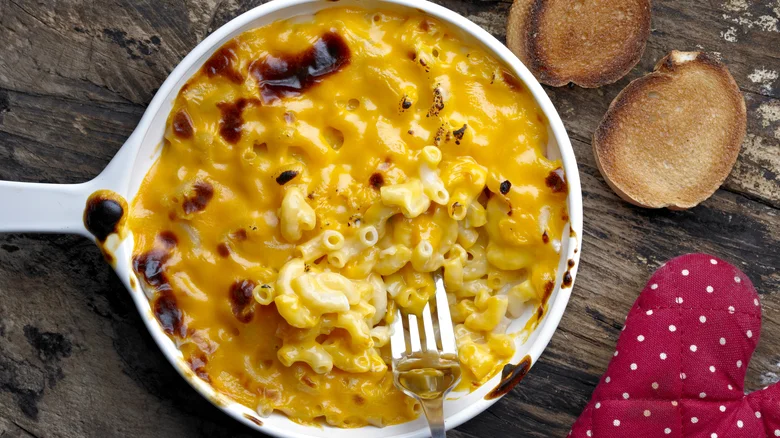
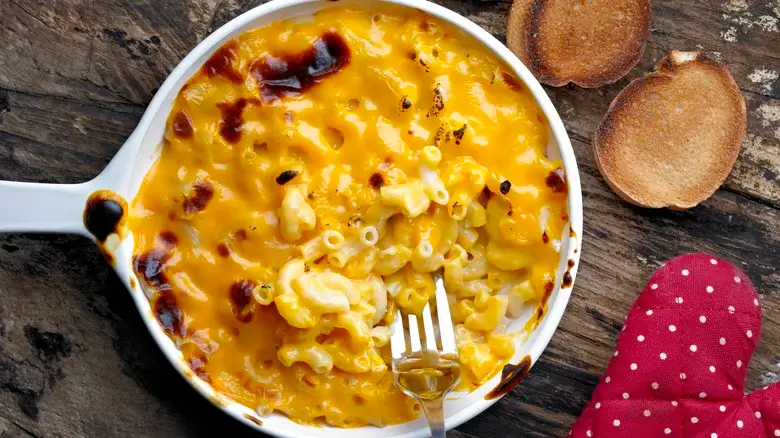
replacece images with compressed veversions, add aria-labels to social media links

diff --git a/index.html b/index.html
@@ -209,9 +209,9 @@
     <!--FOOTER-->
     <footer>
         <h3>Find us on social media for more inspiration!</h3>
-        <a href="https://instagram.com/" target="_blank" rel="noopener"><i class="fa-brands fa-instagram"></i></a>
-        <a href="https://youtube.com/" target="_blank" rel="noopener"><i class="fa-brands fa-youtube"></i></a>
-        <a href="https://facebook.com/" target="_blank" rel="noopener"><i class="fa-brands fa-facebook"></i></a>
+        <a href="https://instagram.com/" target="_blank" rel="noopener" aria-label="Link to instagram-page, opens up in new window"><i class="fa-brands fa-instagram"></i></a>
+        <a href="https://youtube.com/" target="_blank" rel="noopener" aria-label="Link to youtube-page, opens up in new window"><i class="fa-brands fa-youtube"></i></a>
+        <a href="https://facebook.com/" target="_blank" rel="noopener" aria-label="Link to facebook-page, opens up in new window"><i class="fa-brands fa-facebook"></i></a>
     </footer>
 </body>
 </html>
